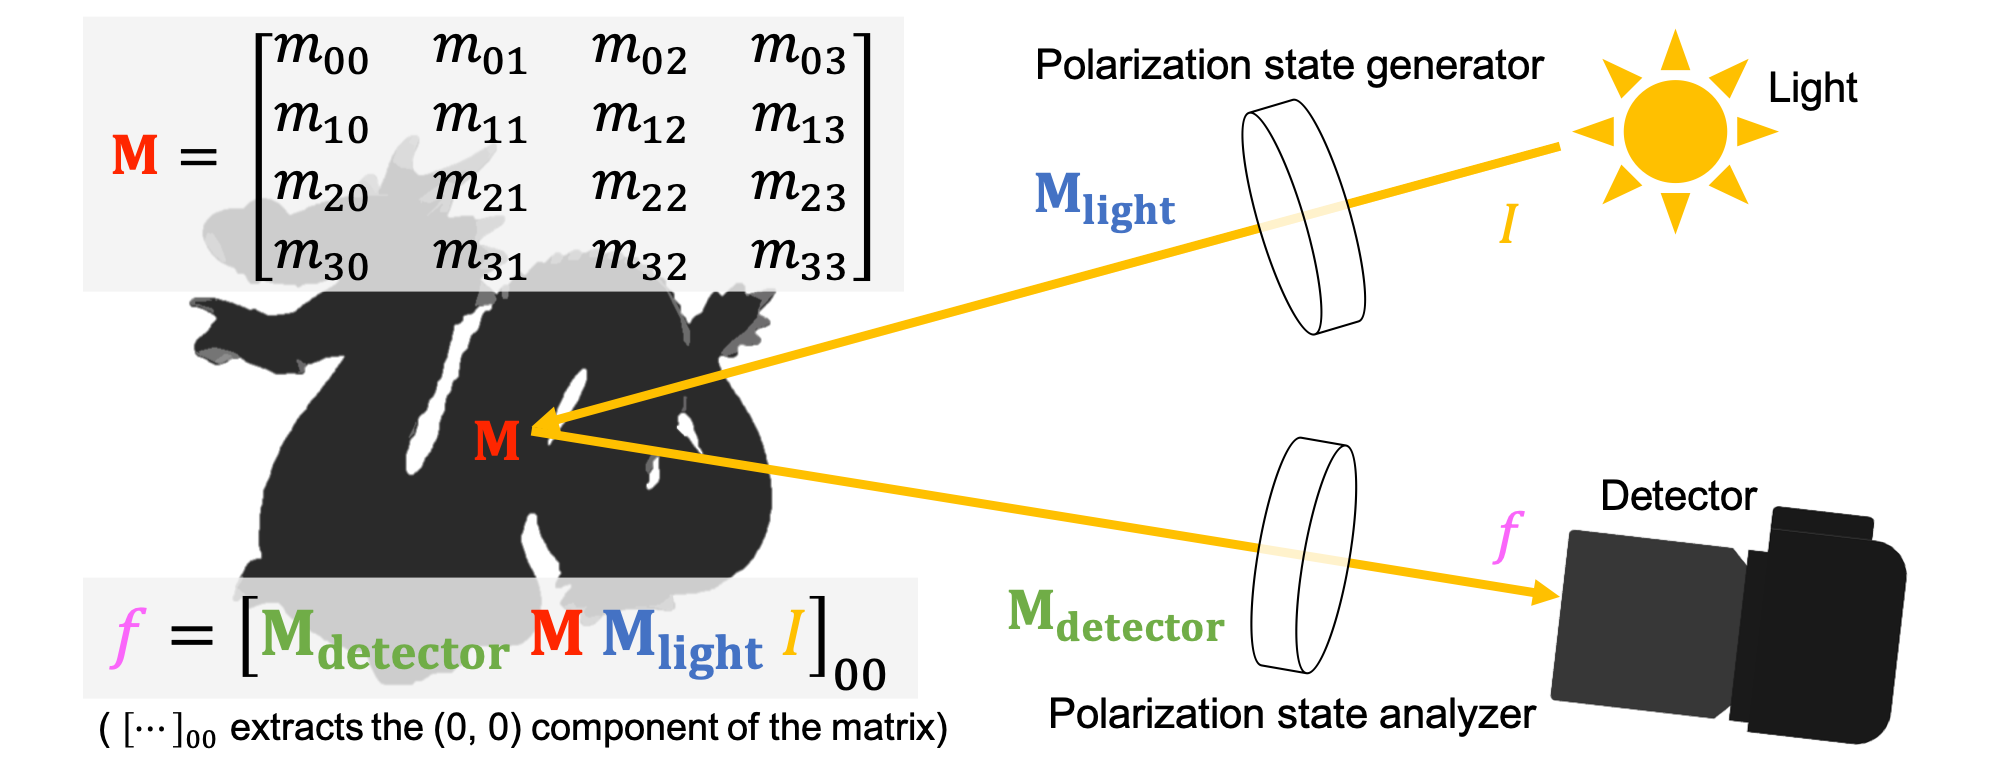
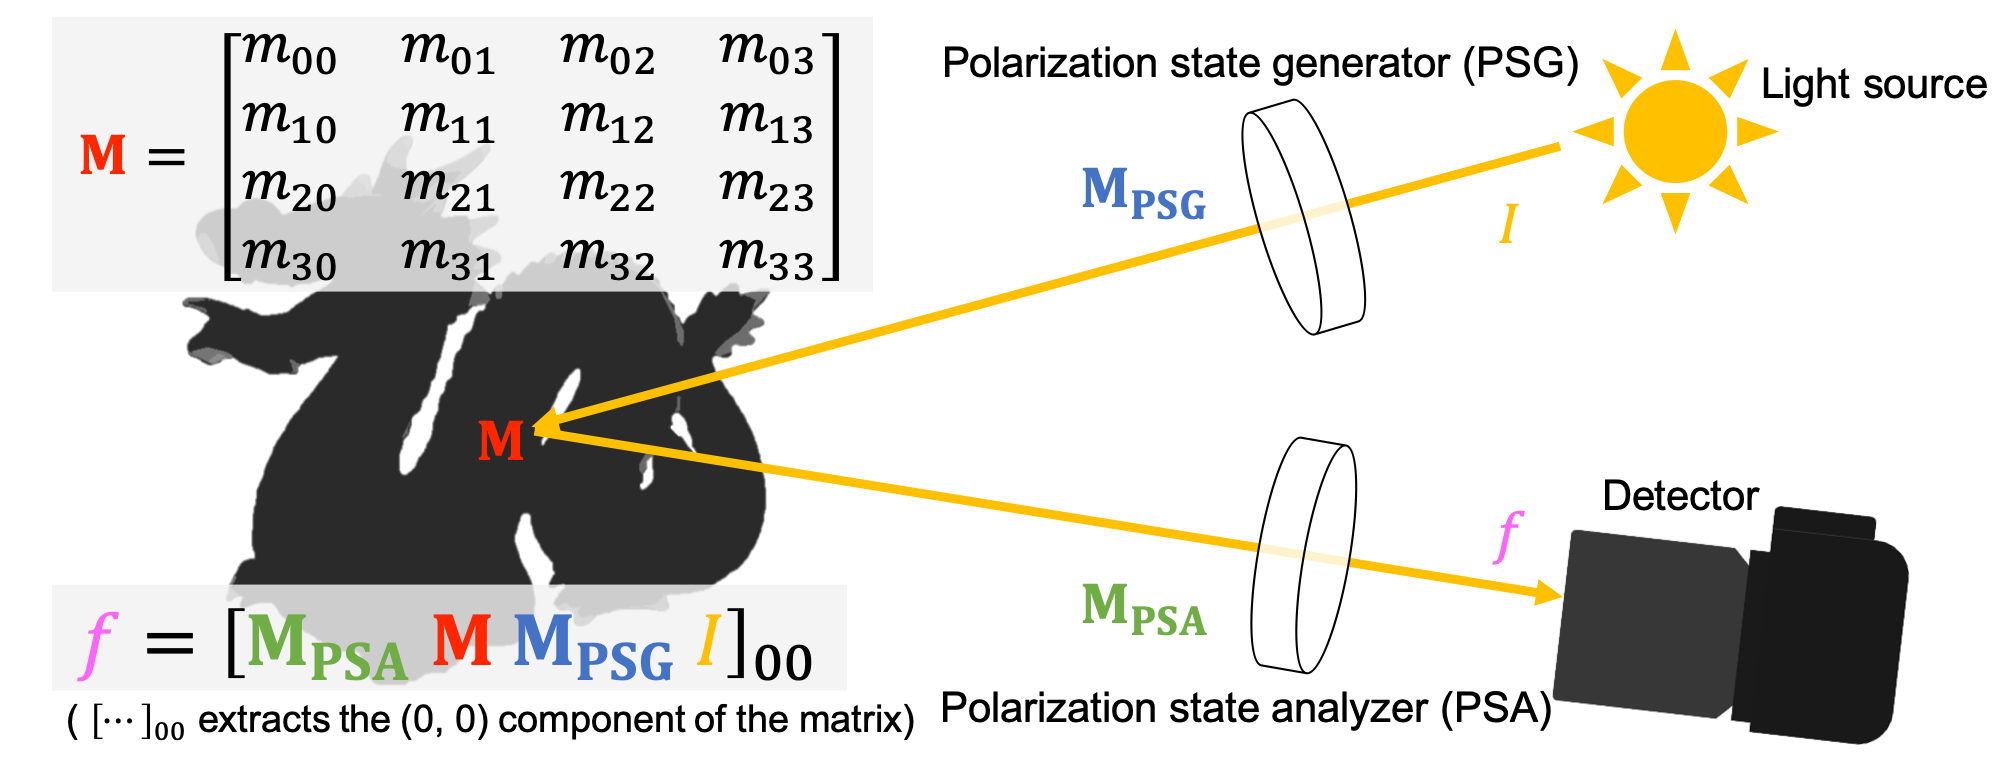
Rename light and detector to PSG and PSA

diff --git a/polanalyser/io.py b/polanalyser/io.py
@@ -32,17 +32,17 @@ class NdarrayDecoder(json.JSONDecoder):
         return obj
 
 class PolarizationImages(list):
-    """Provide raw polarization images and paired Mueller matrix (both detector and light source).
+    """Provide raw polarization images and paired Mueller matrix (both Polarization State Generator (PSG) and Polarization State Analyzer (PSA)).
 
     Examples
     --------
-    Register and save polarization images with Mueller matix of detector (e.g., passive measurment using polarization camera)
+    Register and save polarization images with Mueller matix of PSA (e.g., passive measurment using polarization camera)
 
     >>> pimages = PolarizationImages()
     >>> for _ in range(4):
     ...     image = np.random.rand(256, 256, 3).astype(np.float32)
-    ...     mueller_detector = np.random.rand(4, 4)
-    ...     pimages.add(image, mueller_detector)
+    ...     mueller_psa = np.random.rand(4, 4)
+    ...     pimages.add(image, mueller_psa)
     >>> pimages.save("test_pimages")
 
     Register and save polarization images with pair of Mueller matrices (e.g., ellipsometer, dual-rotating-retarder)
@@ -50,9 +50,9 @@ class PolarizationImages(list):
     >>> pimages = PolarizationImages()
     >>> for _ in range(16):
     ...     image = np.random.rand(256, 256, 3).astype(np.float32)
-    ...     mueller_detector = np.random.rand(4, 4)
-    ...     mueller_light = np.random.rand(4, 4)
-    ...     pimages.add(image, mueller_detector, mueller_light)
+    ...     mueller_psa = np.random.rand(4, 4)
+    ...     mueller_psg = np.random.rand(4, 4)
+    ...     pimages.add(image, mueller_psa, mueller_psg)
     >>> pimages.save("test_pimages")
 
     Load polarization images (iterate)
@@ -62,8 +62,8 @@ class PolarizationImages(list):
     16
     >>> for pimage in pimages:
     ...     image = pimage["image"]
-    ...     mueller_detector = pimage["mueller_detector"]
-    ...     mueller_light = pimage["mueller_light"]
+    ...     mueller_psa = pimage["mueller_psa"]
+    ...     mueller_psg = pimage["mueller_psg"]
 
     Load polarization images (list of objects)
 
@@ -77,18 +77,18 @@ class PolarizationImages(list):
     <class 'numpy.ndarray'>
     >>> images[0].shape
     (256, 256, 3)
-    >>> muellers_light = pimages.mueller_light
-    >>> muellers_detector = pimages.mueller_detector
+    >>> muellers_psg = pimages.mueller_psg
+    >>> muellers_psa = pimages.mueller_psa
 
     Register optional values
 
     >>> pimages = PolarizationImages()
     >>> image = np.random.rand(256, 256, 3).astype(np.float32)
-    >>> mueller_detector = np.random.rand(4, 4)
-    >>> pimages.add(image, mueller_detector, polarizer_angle=0)
-    >>> pimages.add(image, mueller_detector, polarizer_angle=45)
-    >>> pimages.add(image, mueller_detector, polarizer_angle=90)
-    >>> pimages.add(image, mueller_detector, polarizer_angle=135)
+    >>> mueller_psa = np.random.rand(4, 4)
+    >>> pimages.add(image, mueller_psa, polarizer_angle=0)
+    >>> pimages.add(image, mueller_psa, polarizer_angle=45)
+    >>> pimages.add(image, mueller_psa, polarizer_angle=90)
+    >>> pimages.add(image, mueller_psa, polarizer_angle=135)
     >>> pimages.polarizer_angle
     [0, 45, 90, 135]
     """
@@ -116,10 +116,10 @@ class PolarizationImages(list):
             else:
                 raise
 
-    def add(self, image: np.ndarray, mueller_detector: np.ndarray, mueller_light: Optional[np.ndarray] = None, **optional_values: Dict[str, Any]) -> None:
+    def add(self, image: np.ndarray, mueller_psa: np.ndarray, mueller_psg: Optional[np.ndarray] = None, **optional_values: Dict[str, Any]) -> None:
         dict_obj = {"image": image, 
-                    "mueller_detector": mueller_detector, 
-                    "mueller_light": mueller_light, 
+                    "mueller_psa": mueller_psa, 
+                    "mueller_psg": mueller_psg, 
                     **optional_values}
         self.append(dict_obj)
 
@@ -156,7 +156,7 @@ class PolarizationImages(list):
             if image is None:
                 raise FileNotFoundError(f"'{filename_img}' not found.")
 
-            mueller_detector = loaded_dict.pop("mueller_detector")
-            mueller_light = loaded_dict.pop("mueller_light")
+            mueller_psa = loaded_dict.pop("mueller_psa")
+            mueller_psg = loaded_dict.pop("mueller_psg")
 
-            self.add(image, mueller_detector, mueller_light, **loaded_dict)
+            self.add(image, mueller_psa, mueller_psg, **loaded_dict)

diff --git a/polanalyser/mueller.py b/polanalyser/mueller.py
@@ -1,11 +1,11 @@
 from typing import List, Optional
 import numpy as np
 
-def calcMueller(intensities: List[np.ndarray], muellers_light: List[np.ndarray], muellers_detector: List[np.ndarray]):
-    """Calculate Mueller matrix from observed intensities and Mueller matrixes of light source and detector
+def calcMueller(intensities: List[np.ndarray], muellers_psg: List[np.ndarray], muellers_psa: List[np.ndarray]):
+    """Calculate Mueller matrix from observed intensities and Mueller matrixes of Polarization State Generator (PSG) and Polarization State Analyzer (PSA)
 
-    This function calculates Mueller matrix image from images captured under a variety of polarimetric conditions (both light and detector side).
-    Polarimetric conditions are described by Mueller matrix form (`muellers_light` and `muellers_detector`).
+    This function calculates Mueller matrix image from images captured under a variety of polarimetric conditions (both PSG and PSA).
+    Polarimetric conditions are described by Mueller matrix form (`muellers_psg` and `muellers_psa`).
 
     The unknown Mueller matrix is calculated by the least-squares method from pairs of intensities and Muller matrices.
     The number of input pairs must be greater than the number of Mueller matrix parameters (i.e., more than 9 or 16).
@@ -14,31 +14,31 @@ def calcMueller(intensities: List[np.ndarray], muellers_light: List[np.ndarray],
     ----------
     intensities : List[np.ndarray]
         Measured intensities.
-    muellers_light : List[np.ndarray]
-        Mueller matrix of the light source. (3, 3) or (4, 4)
-    muellers_detector : List[np.ndarray]
-        Mueller matrix of the analyzer. (3, 3) or (4, 4)
+    muellers_psg : List[np.ndarray]
+        Mueller matrix of the Polarization State Generator (PSG). (3, 3) or (4, 4)
+    muellers_psa : List[np.ndarray]
+        Mueller matrix of the Polarization State Analyzer (PSA). (3, 3) or (4, 4)
 
     Returns
     -------
     mueller : np.ndarray
         Mueller matrix. (height, width, 9) or (height, width, 16)
     """
-    lists_length = [len(intensities), len(muellers_light), len(muellers_detector)]
+    lists_length = [len(intensities), len(muellers_psg), len(muellers_psa)]
     if not all(x == lists_length[0] for x in lists_length):
         raise ValueError(f"The length of the list must be the same, not {lists_length}.")
 
     # Convert List[np.ndarray] to np.ndarray
     intensities = np.stack(intensities, axis=-1)  # (height, width, K)
-    muellers_light = np.stack(muellers_light, axis=-1)  # (3, 3, K) or (4, 4, K)
-    muellers_detector = np.stack(muellers_detector, axis=-1)  # (3, 3, K) or (4, 4, K)
+    muellers_psg = np.stack(muellers_psg, axis=-1)  # (3, 3, K) or (4, 4, K)
+    muellers_psa = np.stack(muellers_psa, axis=-1)  # (3, 3, K) or (4, 4, K)
     
     K = intensities.shape[-1]  # scalar
-    D = muellers_light.shape[0]  # sclar: 3 or 4
+    D = muellers_psg.shape[0]  # sclar: 3 or 4
     W = np.empty((K, D*D))
     for k in range(K):
-        P1 = np.expand_dims(muellers_light[:, 0, k], axis=1)  # [m00, m10, m20] or [m00, m10, m20, m30]
-        A1 = np.expand_dims(muellers_detector[0, :, k], axis=0)  # [m00, m01, m02] or [m00, m01, m02, m03]
+        P1 = np.expand_dims(muellers_psg[:, 0, k], axis=1)  # [m00, m10, m20] or [m00, m10, m20, m30]
+        A1 = np.expand_dims(muellers_psa[0, :, k], axis=0)  # [m00, m01, m02] or [m00, m01, m02, m03]
         W[k] = np.ravel((P1 @ A1).T)
 
     W_pinv = np.linalg.pinv(W)  # (D*D, K)

diff --git a/examples/calculate_mueller.py b/examples/calculate_mueller.py
@@ -13,7 +13,7 @@ def main():
     pimages = pa.io.PolarizationImages(folder_path)
     
     print("Calculate Mueller matrix")
-    img_mueller = pa.calcMueller(pimages.image, pimages.mueller_light, pimages.mueller_detector)
+    img_mueller = pa.calcMueller(pimages.image, pimages.mueller_psg, pimages.mueller_psa)
     
     print(img_mueller.shape, img_mueller.dtype)
 

diff --git a/README.md b/README.md
@@ -76,10 +76,10 @@ The [**Mueller matrix**](https://en.wikipedia.org/wiki/Mueller_calculus) represe
 
 We can measure the unknown Mueller matrix by changing the polarization state of both the light and the detector. The following figure shows a schematic diagram to measure the unknown Mueller matrix **M**.
 ![](documents/mueller_setup.png)
-*I* denotes the intensity of the unpolarized light source. **M_light** and **M_detector** represent the polarization states in Mueller matrix form. Polarization state generator/analyzer are commonly composed of the basic optical elements (i.e., linear polarizer and retarder). 
-The detector measures the intensity *f* expressed by *f* = [ **M_detector** **M** **M_light** *I* ]00. [...]00 extracts the (0, 0) component of the matrix.
+*I* denotes the intensity of the unpolarized light source. **M_PSG** and **M_PSA** represent the Polarization state generator and analyzer (PSG and PSA) in Mueller matrix form. PSG and PSA are commonly composed of the basic optical elements (i.e., linear polarizer and retarder). 
+The detector measures the intensity *f* expressed by *f* = [ **M_PSA** **M** **M_PSG** *I* ]00. [...]00 extracts the (0, 0) component of the matrix.
 
-Measuring *f* by changing many combinations of **M_light** and **M_detector** can estimate the unknown Mueller matrix **M** with a linear least-squares method.
+Measuring *f* by changing many combinations of **M_PSG** and **M_PSA** can estimate the unknown Mueller matrix **M** with a linear least-squares method.
 
 The following code shows the example to estimate the 3x3 Mueller matrix image.
 ```python
@@ -92,13 +92,13 @@ pimages = pa.io.PolarizationImages(folder_path)
 
 print(len(pimages))  # 16
 print(pimages.image[0].shape)  # (2048, 2448)
-print(pimages.mueller_light[0].shape)  # (3, 3)
-print(pimages.mueller_detector[0].shape)  # (3, 3)
+print(pimages.mueller_psg[0].shape)  # (3, 3)
+print(pimages.mueller_psa[0].shape)  # (3, 3)
 
 # Calculate Mueller matrix
 img_mueller = pa.calcMueller(pimages.image, 
-                             pimages.mueller_light, 
-                             pimages.mueller_detector)
+                             pimages.mueller_psg, 
+                             pimages.mueller_psa)
 
 print(img_mueller.shape)  # (2048, 2448, 9)
 
